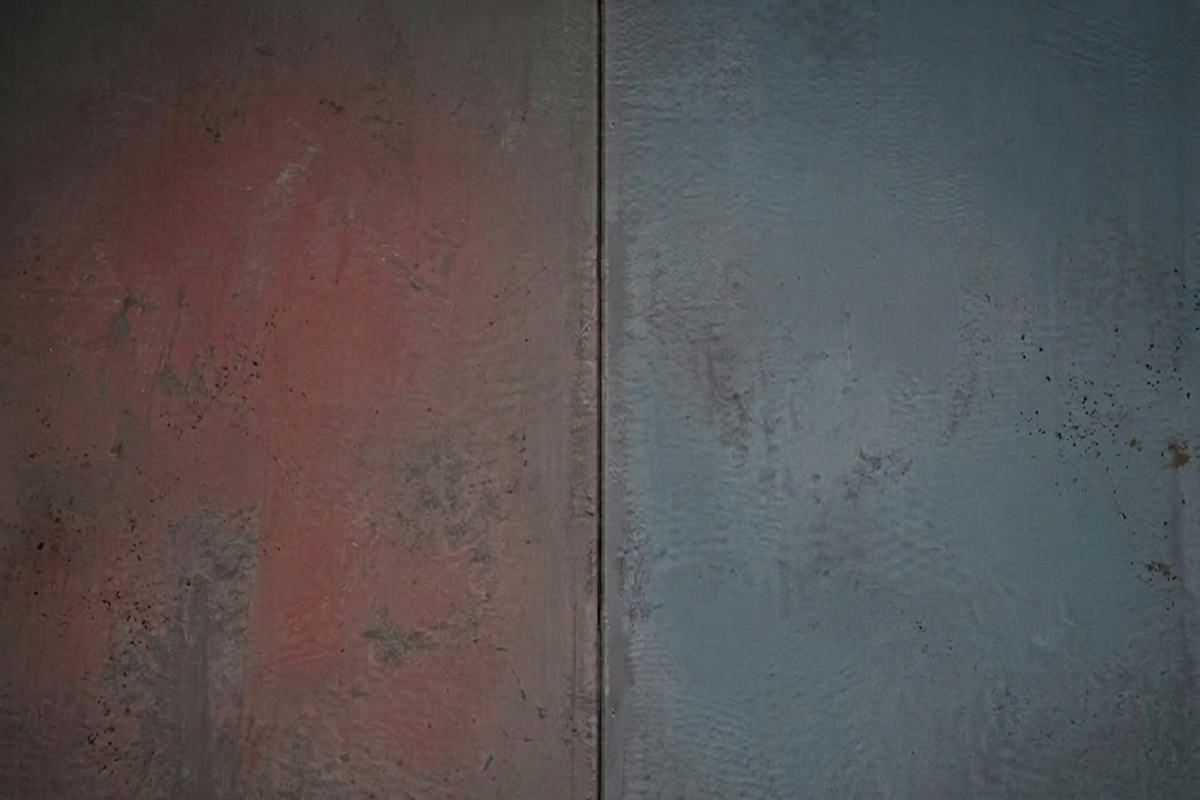
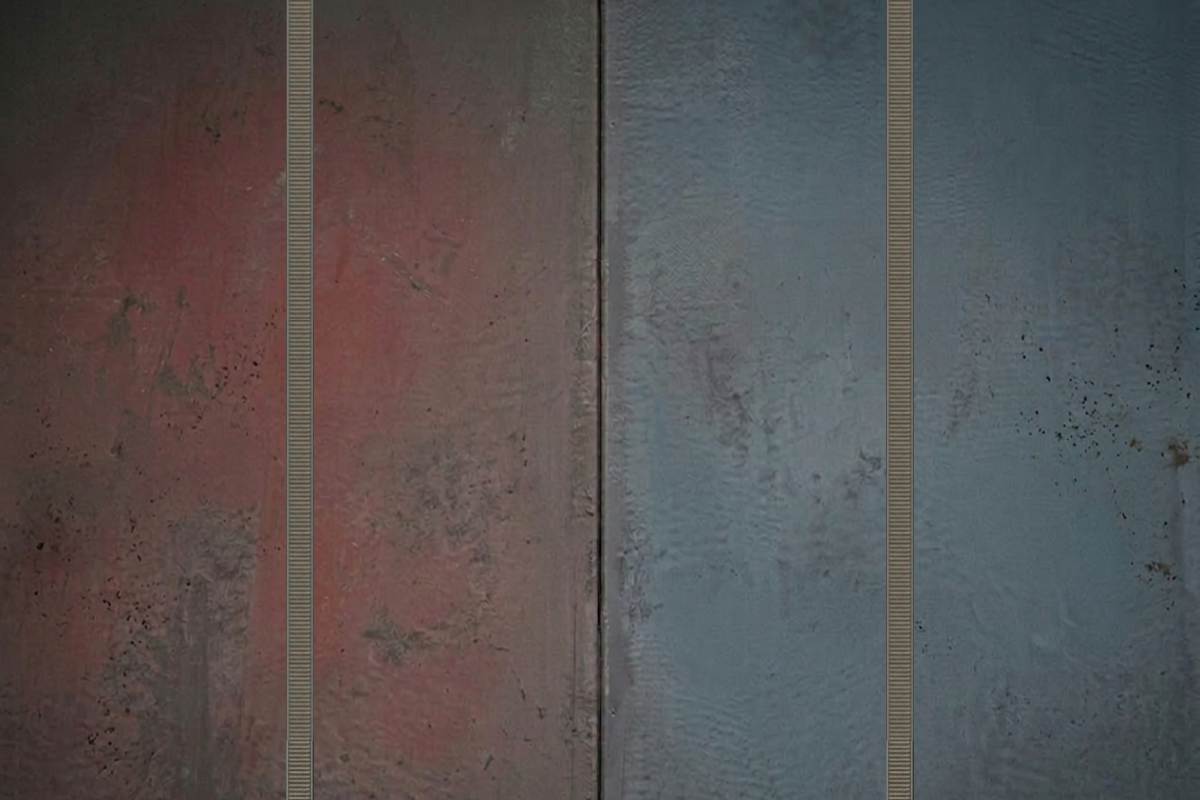
read description
morphed conveyor belt to background, removed conveyor belt class, updated factory world to spawn products at the top, edited images of machines to not have beltss on them

Changed region(s): [[0.2158, 0.0, 0.2775, 1.0], [0.74, 0.0, 0.7708, 1.0]]

diff --git a/FactoryWorld.java b/FactoryWorld.java
@@ -6,6 +6,10 @@ public class FactoryWorld extends World
     
     private boolean gameStarted = false;
     
+    //location variables
+    private int leftSpawn = 298;
+    private int rightSpawn = 898;
+    
     // Score variables
     private Label leftScoreLabel;
     private Label rightScoreLabel;
@@ -78,8 +82,8 @@ public class FactoryWorld extends World
         }
         leftMach = new Assembler();
         rightMach = new Assembler();
-        addObject(leftMach, getWidth() / 4, getHeight() / 2);
-        addObject(rightMach, getWidth() / 4 * 3, getHeight() / 2);
+        addObject(leftMach, leftSpawn, getHeight() / 2);
+        addObject(rightMach, rightSpawn, getHeight() / 2);
     }
     
     public void setBackground(){
@@ -172,8 +176,8 @@ public class FactoryWorld extends World
         // Need to add this so that Product can spawn
         if (Greenfoot.getRandomNumber(60) == 0)
         {
-            addObject(new Product(1), leftMach.getX(), leftMach.getY() - 100);
-            addObject(new Product(2), rightMach.getX(), rightMach.getY() - 100);
+            addObject(new Product(1), leftSpawn, 0);
+            addObject(new Product(2), rightSpawn, 0);
         }
         
         timer++;
